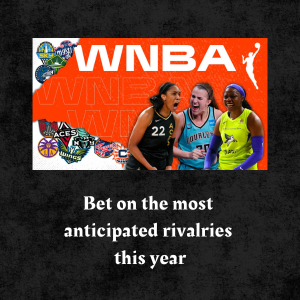
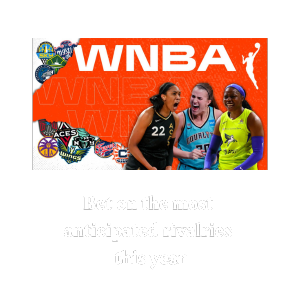
landing page media queries

diff --git a/react-vite/src/components/LandingPage/LandingPage.css b/react-vite/src/components/LandingPage/LandingPage.css
@@ -12,7 +12,7 @@
     width: 1400px;
 }
 
-.landing-card1 > button {
+#landing1-container > button {
     display: flex;
     justify-content: center;
     align-items: center;
@@ -29,7 +29,7 @@
     font-weight: bold;
 }
 
-.landing-card1 > button:hover {
+#landing1-container > button:hover {
     cursor: pointer;
     background-color: #f9852c;
 }
@@ -51,6 +51,10 @@
     justify-content: center;
     align-items: center;
     gap: 60px;
+}
+
+.landing-balls {
+    font-size: 30px;
 }
 
 .landing-icon-sport {
@@ -89,88 +93,174 @@
 }
 
 
-@media (min-width: 1001px) and (max-width: 1200px) {
+@media (min-width: 1001px) and (max-width: 1300px) {
     #landing1-container {
         background-image: url('../../../images/landing1-large.png');
         background-repeat: no-repeat;
-        background-position: center;
+        background-position: center center;
+        display: flex;
+        flex-direction: row;
+        justify-content: center;
+        align-items: flex-end;
     }
+
+    #landing1-container > button {
+        display: flex;
+        justify-content: center;
+        align-items: center;
+        margin: 0px;
+        margin-bottom: 95px;
+        margin-right: 570px;
+        border: none;
+        background-color: #f76900;
+        color: white;
+        text-decoration: none;
+        font-weight: bold;
+    }
+
     #landing3-container {
         background-image: url('../../../images/landing2-large.png');
         background-repeat: no-repeat;
-        background-position: center;
+        background-position: center center;
+        width: 100%;
+        height: 600px;
+        margin: 0px;
     }
 }
 
-@media (min-width: 601px) and (max-width: 1000px) {
+
+@media (max-width: 1000px) {
     #landing1-container {
         background-image: url('../../../images/landing1-med.png');
         background-repeat: no-repeat;
-        background-position: center;
+        background-position: center center;
+        width: 100%;
+        height: 90%;
+        display: flex;
+        flex-direction: row;
+        justify-content: center;
+        align-items: flex-end;
+    }
+
+    #landing1-container > button {
+        display: flex;
+        justify-content: center;
+        align-items: center;
+        margin: 0px;
+        margin-bottom: 71px;
+        margin-right: 330px;
+        height: 32px;
+        width: 120px;
+        border: none;
+        background-color: #f76900;
+        color: white;
+        text-decoration: none;
+        font-size: 14px;
+        font-weight: bold;
     }
 
     #landing2-container {
-        overflow-y: hidden;
-        overflow-x: scroll;
-        scrollbar-width: thin;
+        padding: 10px 0px 10px 0px;
+    }
+
+    .landing-balls {
+        font-size: 26px;
+    }
+
+    .landing-icon-sport {
+        font-size: 12px;
     }
 
     #landing3-container {
         background-image: url('../../../images/landing2-med.png');
         background-repeat: no-repeat;
-        background-position: center;
+        background-position: center center;
+        width: 100%;
+        height: 600px;
+        margin-top: 30px;
+        margin-bottom: 30px;
     }
 
-    #fanswap-ad > a > img{
-        width: 100%;
+    #fanswap-ad > a {
+        display: flex;
+        justify-content: center;
+    }
+
+    #fanswap-ad > a > img {
+        width: 80%;
     }
 }
 
-@media (min-width: 375px) and (max-width: 600px) {
+
+@media (max-width: 700px) {
     #landing1-container {
         background-image: url('../../../images/landing1-small.png');
         background-repeat: no-repeat;
-        background-position: center;
+        background-position: center center;
         width: 100%;
+        height: 90%;
+        display: flex;
+        flex-direction: row;
+        justify-content: center;
+        align-items: flex-end;
+    }
+
+    #landing1-container > button {
+        display: flex;
+        justify-content: center;
+        align-items: center;
+        margin: 0px;
+        margin-bottom: 36px;
+        height: 30px;
+        width: 90px;
+        border: none;
+        background-color: #f76900;
+        color: white;
+        text-decoration: none;
+        font-size: 12px;
+        font-weight: bold;
+    }
+    
+    #landing1-container > button:hover {
+        cursor: pointer;
+        background-color: #f9852c;
     }
 
     #landing2-container {
         overflow-y: hidden;
         overflow-x: scroll;
         scrollbar-width: thin;
+        height: 25%;
+        width: 100%;
+    }
+
+    #landing2-sport-leagues {
+        display: flex;
+        flex-direction: row;
+        justify-content: center;
+        align-items: center;
+        gap: 30px;
+        width: 80%;
+    }
+
+    .landing-balls {
+        font-size: 22px;
+    }
+
+    .landing-icon-sport {
+        font-size: 11px;
     }
 
     #landing3-container {
         background-image: url('../../../images/landing2-small.png');
         background-repeat: no-repeat;
-        background-position: center;
-    }
-
-    #fanswap-ad {
-        display: none;
-    }
-}
-
-@media (max-width: 374px) {
-    #landing1-container {
-        background-image: url('../../../images/landing1-small2.png');
-        background-repeat: no-repeat;
-        background-position: center;
+        background-position: center center;
         width: 100%;
+        height: 600px;
+        margin-top: 30px;
+        margin-bottom: 30px;
     }
 
-    #landing2-container {
-        overflow-y: hidden;
-        overflow-x: scroll;
-        scrollbar-width: thin;
-    }
-
-    #landing3-container {
-        background-image: url('../../../images/landing2-small2.png');
-        background-repeat: no-repeat;
-        background-position: center;
-        width: 100%;
-    }
     #fanswap-ad {
         display: none;
     }

diff --git a/react-vite/src/components/LandingPage/LandingPage.jsx b/react-vite/src/components/LandingPage/LandingPage.jsx
@@ -15,43 +15,41 @@ function LandingPage() {
     return (
         <div id='landing-container'>
             <div id='landing1-container'>
-                <div className='landing-card1'>
-                    <OpenModalButton
-                    id='big-signup'
-                    buttonText="Sign Up"
-                    onItemClick={closeModal}
-                    modalComponent={<SignupFormModal />}
-                    />
-                </div>
+                <OpenModalButton
+                id='big-signup'
+                buttonText="Sign Up"
+                onItemClick={closeModal}
+                modalComponent={<SignupFormModal />}
+                />
             </div>
             <div id='landing2-container'>
                 <div id='landing2-sport-leagues'>
                     <div className='landing-icon-sport'>
-                        <PiBasketballLight fontSize='30px'/>
+                        <PiBasketballLight className='landing-balls'/>
                         <p>WNBA</p>
                     </div>
                     <div className='landing-icon-sport'>
-                        <PiSoccerBallFill fontSize='30px'/>
+                        <PiSoccerBallFill className='landing-balls'/>
                         <p>NWSL</p>
                     </div>
                     <div className='landing-icon-sport'>
-                        <MdSportsRugby fontSize='30px'/>
+                        <MdSportsRugby className='landing-balls'/>
                         <p>WPL</p>
                     </div>
                     <div className='landing-icon-sport'>
-                        <PiBasketballLight fontSize='30px'/>
+                        <PiBasketballLight className='landing-balls'/>
                         <p>CWBB</p>
                     </div>
                     <div className='landing-icon-sport'>
-                        <PiSoccerBallFill fontSize='30px'/>
+                        <PiSoccerBallFill className='landing-balls'/>
                         <p>Soccer<br></br>Olympics</p>
                     </div>
                     <div className='landing-icon-sport'>
-                        <PiBasketballLight fontSize='30px'/>
+                        <PiBasketballLight className='landing-balls'/>
                         <p>Basketball<br></br>Olympics</p>
                     </div>
                     <div className='landing-icon-sport'>
-                        <MdSportsRugby fontSize='30px'/>
+                        <MdSportsRugby className='landing-balls'/>
                         <p>Rugby<br></br>Olympics</p>
                     </div>
                 </div>

diff --git a/react-vite/src/components/Navigation/Navigation.css b/react-vite/src/components/Navigation/Navigation.css
@@ -21,8 +21,16 @@
   gap: 40px;
 }
 
-.middle-nav-titles {
-  display: block;
+.dropdown-content {
+  display: flex;
+  flex-direction: row;
+  justify-content: center;
+  align-items: center;
+  gap: 40px;
+}
+
+#home-nav, #teams-nav, #games-nav, #results-nav {
+  /* display: block; */
   position: relative;
   padding: 0.2em 0;
   text-decoration: none;
@@ -31,7 +39,10 @@
   color: #ababab;
 }
 
-.middle-nav-titles::after {
+#home-nav::after , 
+#teams-nav::after , 
+#games-nav::after , 
+#results-nav::after {
 	content: '';
 	position: absolute;
 	bottom: 0;
@@ -43,8 +54,14 @@
 	transition: opacity 400ms, transform 400ms;
 }
 
-.middle-nav-titles:hover::after,
-.middle-nav-titles:focus::after {
+#home-nav:hover::after, 
+#teams-nav:hover::after, 
+#games-nav:hover::after, 
+#results-nav:hover::after,
+#home-nav:focus::after, 
+#teams-nav:focus::after, 
+#games-nav:focus::after, 
+#results-nav:focus::after {
 	opacity: 1;
 	transform: translate3d(0, 0.2em, 0);
 }
@@ -132,7 +149,16 @@
 }
 
 
-@media (max-width: 374px) {
+@media (max-width: 1000px) {
+  #home-nav,
+  #teams-nav, 
+  #games-nav, 
+  #results-nav {
+    font-size: 14px;
+  }
+}
+
+@media (max-width: 700px) {
   #teams-nav, 
   #games-nav, 
   #results-nav {
